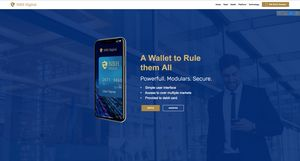
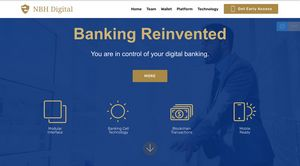
rebuilded

diff --git a/page1.html b/page1.html
@@ -25,7 +25,29 @@
   
 </head>
 <body>
-  <section class="menu cid-riDfjU63oR" once="menu" id="menu2-a">
+  <section class="header1 cid-rr6Uxd47ps mbr-parallax-background" id="header16-1l">
+
+    
+
+    <div class="mbr-overlay" style="opacity: 0.6; background-color: rgb(6, 64, 145);">
+    </div>
+
+    <div class="container">
+        <div class="row justify-content-md-center">
+            <div class="col-md-10 align-center">
+                <h1 class="mbr-section-title mbr-bold pb-3 mbr-fonts-style display-1">NBH Digital Team</h1>
+                
+                <p class="mbr-text pb-3 mbr-fonts-style display-5">
+                    Our Dream is for Everyone to Become Their Own Bank..
+                </p>
+                
+            </div>
+        </div>
+    </div>
+
+</section>
+
+<section class="engine"><a href="https://mobirise.info/v">free html templates</a></section><section class="menu cid-riDfjU63oR" once="menu" id="menu2-a">
 
     
 
@@ -59,28 +81,6 @@
                     </span>Get Early Access</a></div>
         </div>
     </nav>
-</section>
-
-<section class="engine"><a href="https://mobirise.info/b">create a site</a></section><section class="header1 cid-rr6Uxd47ps mbr-parallax-background" id="header16-1l">
-
-    
-
-    <div class="mbr-overlay" style="opacity: 0.6; background-color: rgb(6, 64, 145);">
-    </div>
-
-    <div class="container">
-        <div class="row justify-content-md-center">
-            <div class="col-md-10 align-center">
-                <h1 class="mbr-section-title mbr-bold pb-3 mbr-fonts-style display-1">NBH Digital Team</h1>
-                
-                <p class="mbr-text pb-3 mbr-fonts-style display-5">
-                    Our Dream is for Everyone to Become Their Own Bank..
-                </p>
-                
-            </div>
-        </div>
-    </div>
-
 </section>
 
 <section class="header1 cid-riDJ8a3uuM" data-bg-video="https://www.youtube.com/watch?v=36YgDDJ7XSc" id="header1-m">

diff --git a/index.html b/index.html
@@ -62,7 +62,7 @@
     </nav>
 </section>
 
-<section class="engine"><a href="https://mobirise.info/i">site creation software</a></section><section class="cid-riDxFj70Ib mbr-fullscreen mbr-parallax-background" id="header2-g">
+<section class="engine"><a href="https://mobirise.info/q">free responsive website templates</a></section><section class="cid-riDxFj70Ib mbr-fullscreen mbr-parallax-background" id="header2-g">
 
     
 
@@ -276,7 +276,7 @@
             <div class="media-container-column col-lg-8" data-form-type="formoid">
                     <div data-form-alert="" hidden="">Thanks for filling out the form!</div>
             
[2 lines of base64/hex data omitted]
                         <div class="row row-sm-offset">
                             <div class="col-md-4 multi-horizontal" data-for="name">
                                 <div class="form-group">

diff --git a/page2.html b/page2.html
@@ -62,7 +62,7 @@
     </nav>
 </section>
 
-<section class="engine"><a href="https://mobirise.info/n">free simple website templates</a></section><section class="header3 cid-riEmvDfkxk mbr-fullscreen mbr-parallax-background" id="header3-15">
+<section class="engine"><a href="https://mobirise.info/q">free responsive site templates</a></section><section class="header3 cid-riEmvDfkxk mbr-fullscreen mbr-parallax-background" id="header3-15">
 
     
 

diff --git a/page4.html b/page4.html
@@ -61,7 +61,7 @@
     </nav>
 </section>
 
-<section class="engine"><a href="https://mobirise.info/y">html web templates</a></section><section class="header12 cid-riEbLNmi3O mbr-fullscreen mbr-parallax-background" id="header12-r">
+<section class="engine"><a href="https://mobirise.info/q">free responsive web templates</a></section><section class="header12 cid-riEbLNmi3O mbr-fullscreen mbr-parallax-background" id="header12-r">
 
     
 

diff --git a/page3.html b/page3.html
@@ -61,7 +61,7 @@
     </nav>
 </section>
 
-<section class="engine"><a href="https://mobirise.info/x">css templates</a></section><section class="header1 cid-riEq7nTBNB mbr-parallax-background" id="header1-16">
+<section class="engine"><a href="https://mobirise.info/v">html templates</a></section><section class="header1 cid-riEq7nTBNB mbr-parallax-background" id="header1-16">
 
     
 
